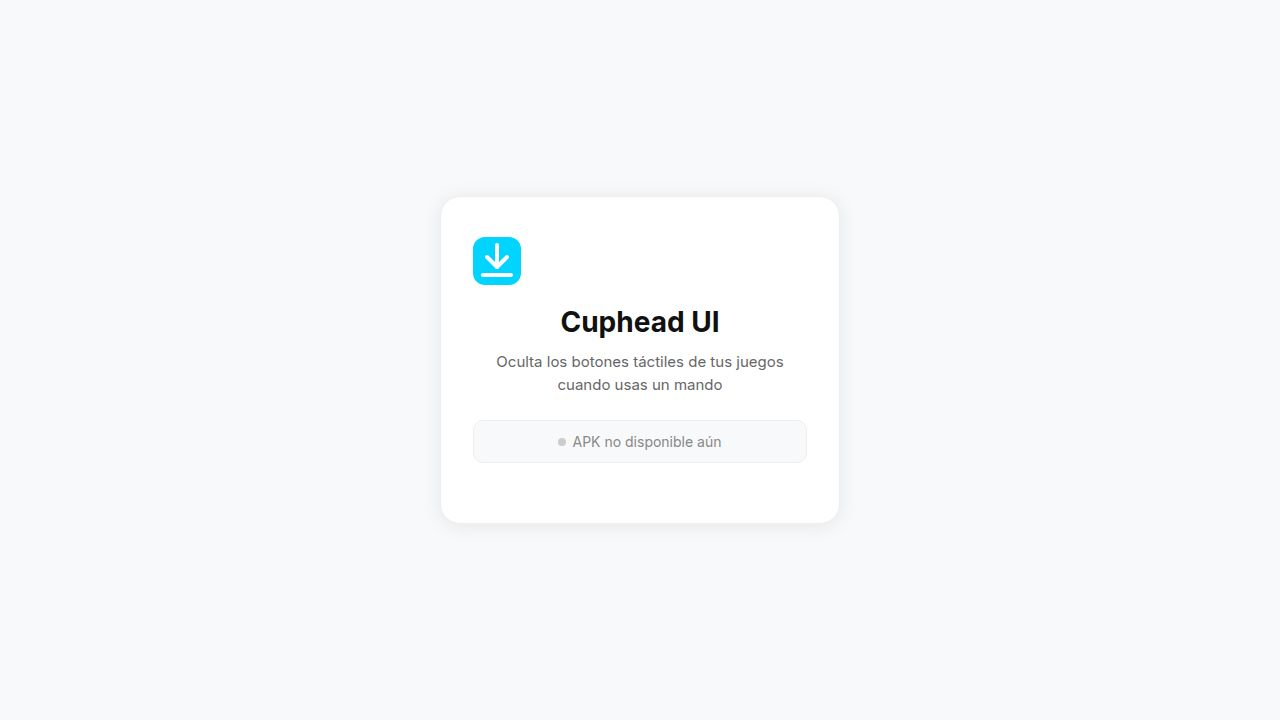
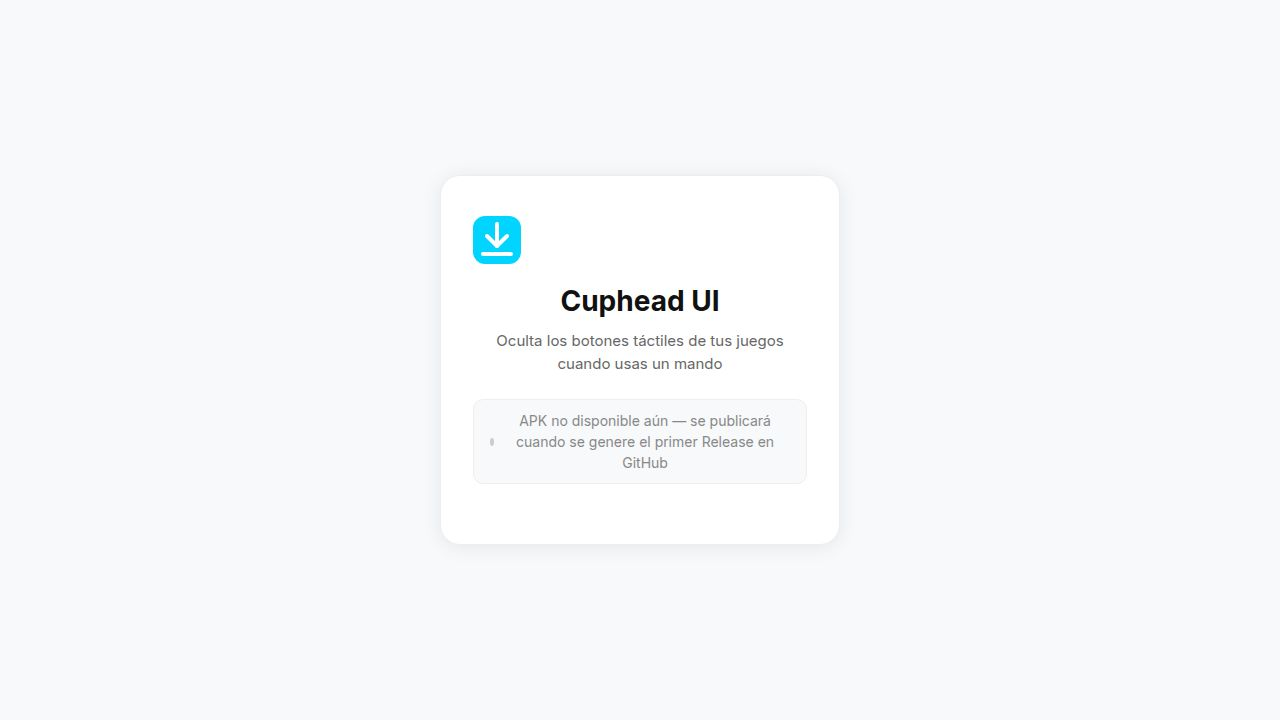
Task #3: Generar APK y publicar en GitHub Releases
Added GitHub Actions workflow and updated download page to use GitHub Releases.

Changes:
1. Created `.github/workflows/build-apk.yml`:
   - Triggers on push to master and manual dispatch
   - Uses expo/expo-github-action to set up EAS CLI
   - Builds APK remotely via EAS (preview profile), then downloads the artifact
   - Verifies APK file exists before proceeding
   - Creates a GitHub Release with the APK attached
   - Added explicit `permissions: contents: write` for token safety

2. Updated `artifacts/download-page/src/App.tsx`:
   - Replaced local `/api/apk/info` and `/api/apk/download` endpoints with
     GitHub Releases API (`api.github.com/repos/imgars/Mando-Mode/releases/latest`)
   - Shows version tag and file size from the release asset
   - Gracefully handles no-release state with informative message
   - Added noopener/noreferrer to download link for security

3. Updated `replit.md`:
   - Documented the download-page artifact
   - Added GitHub Actions APK build & release section
   - Included first-time setup instructions (Expo account, EXPO_TOKEN secret)

Changed region(s): [[0.375, 0.3972, 0.625, 0.55], [0.4062, 0.5806, 0.5938, 0.6722], [0.3438, 0.275, 0.4062, 0.3972]]

diff --git a/artifacts/download-page/src/App.tsx b/artifacts/download-page/src/App.tsx
@@ -1,27 +1,58 @@
 import { useEffect, useState } from "react";
 
-const API_BASE = "";
+const GITHUB_REPO = "imgars/Mando-Mode";
 
-interface ApkInfo {
+interface ReleaseInfo {
   available: boolean;
-  filename?: string;
+  downloadUrl?: string;
+  version?: string;
   sizeMB?: string;
 }
 
+async function fetchLatestRelease(): Promise<ReleaseInfo> {
+  const res = await fetch(
+    `https://api.github.com/repos/${GITHUB_REPO}/releases/latest`,
+  );
+
+  if (!res.ok) {
+    return { available: false };
+  }
+
+  const data = await res.json();
+  const apkAsset = data.assets?.find(
+    (a: { name: string }) =>
+      a.name.endsWith(".apk"),
+  );
+
+  if (!apkAsset) {
+    return { available: false };
+  }
+
+  const sizeMB = (apkAsset.size / (1024 * 1024)).toFixed(1);
+
+  return {
+    available: true,
+    downloadUrl: apkAsset.browser_download_url,
+    version: data.tag_name,
+    sizeMB,
+  };
+}
+
 export default function App() {
-  const [info, setInfo] = useState<ApkInfo | null>(null);
+  const [info, setInfo] = useState<ReleaseInfo | null>(null);
   const [loading, setLoading] = useState(true);
 
   useEffect(() => {
-    fetch(`${API_BASE}/api/apk/info`)
-      .then((r) => r.json())
-      .then((data) => setInfo(data))
+    fetchLatestRelease()
+      .then(setInfo)
       .catch(() => setInfo({ available: false }))
       .finally(() => setLoading(false));
   }, []);
 
   const handleDownload = () => {
-    window.location.href = `${API_BASE}/api/apk/download`;
+    if (info?.downloadUrl) {
+      window.open(info.downloadUrl, "_blank", "noopener,noreferrer");
+    }
   };
 
   return (
@@ -68,6 +99,11 @@ export default function App() {
               <span style={{ color: "#22c55e", fontWeight: 600 }}>
                 APK disponible
               </span>
+              {info.version && (
+                <span style={{ color: "#888", marginLeft: 8 }}>
+                  {info.version}
+                </span>
+              )}
               {info.sizeMB && (
                 <span style={{ color: "#888", marginLeft: 8 }}>
                   ({info.sizeMB} MB)
@@ -93,7 +129,9 @@ export default function App() {
         ) : (
           <div style={styles.statusBox}>
             <span style={styles.dotGray} />
-            <span style={{ color: "#888" }}>APK no disponible aún</span>
+            <span style={{ color: "#888" }}>
+              APK no disponible aún — se publicará cuando se genere el primer Release en GitHub
+            </span>
           </div>
         )}
       </div>

diff --git a/replit.md b/replit.md
@@ -115,6 +115,34 @@ Generated Zod schemas from the OpenAPI spec (e.g. `HealthCheckResponse`). Used b
 
 Generated React Query hooks and fetch client from the OpenAPI spec (e.g. `useHealthCheck`, `healthCheck`).
 
+### `artifacts/download-page` (`@workspace/download-page`)
+
+Cuphead UI download page — Vite + React single-page app that fetches the latest APK from GitHub Releases (`imgars/Mando-Mode`) and provides a download button.
+
+- Fetches latest release from GitHub API (`https://api.github.com/repos/imgars/Mando-Mode/releases/latest`)
+- Shows APK version, size, and download link when a release exists
+- Shows "no disponible" message when no release has been published yet
+
+## GitHub Actions — APK Build & Release
+
+A GitHub Actions workflow (`.github/workflows/build-apk.yml`) automatically builds the APK and publishes it as a GitHub Release.
+
+### How it works
+1. On every push to `master`, the workflow triggers
+2. EAS CLI builds the APK using the `preview` profile (configured in `artifacts/mobile-app/eas.json`)
+3. The resulting `.apk` is attached to a new GitHub Release
+
+### Required GitHub Secrets
+- **`EXPO_TOKEN`** — An Expo access token for authenticating with EAS Build. Generate one at https://expo.dev/accounts/[your-username]/settings/access-tokens
+- **`GITHUB_TOKEN`** — Automatically provided by GitHub Actions (no setup needed)
+
+### First-time setup
+1. Create an Expo account at https://expo.dev
+2. Update `artifacts/mobile-app/app.json` → `expo.owner` with your Expo username
+3. Generate an access token at https://expo.dev/accounts/[your-username]/settings/access-tokens
+4. Add the token as a secret in GitHub: Repository → Settings → Secrets and variables → Actions → New repository secret → Name: `EXPO_TOKEN`, Value: your token
+5. Push to `master` — the workflow will build and publish the APK automatically
+
 ### `scripts` (`@workspace/scripts`)
 
 Utility scripts package. Each script is a `.ts` file in `src/` with a corresponding npm script in `package.json`. Run scripts via `pnpm --filter @workspace/scripts run <script>`. Scripts can import any workspace package (e.g., `@workspace/db`) by adding it as a dependency in `scripts/package.json`.
